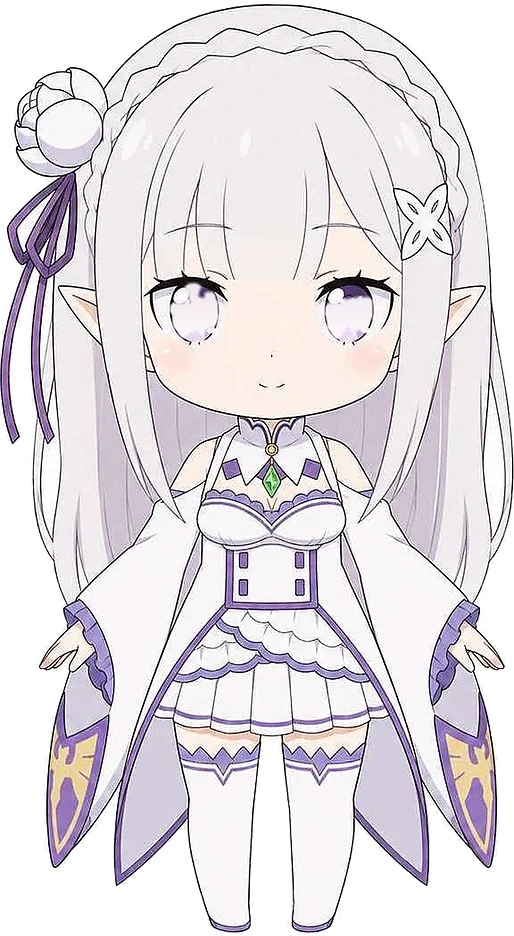
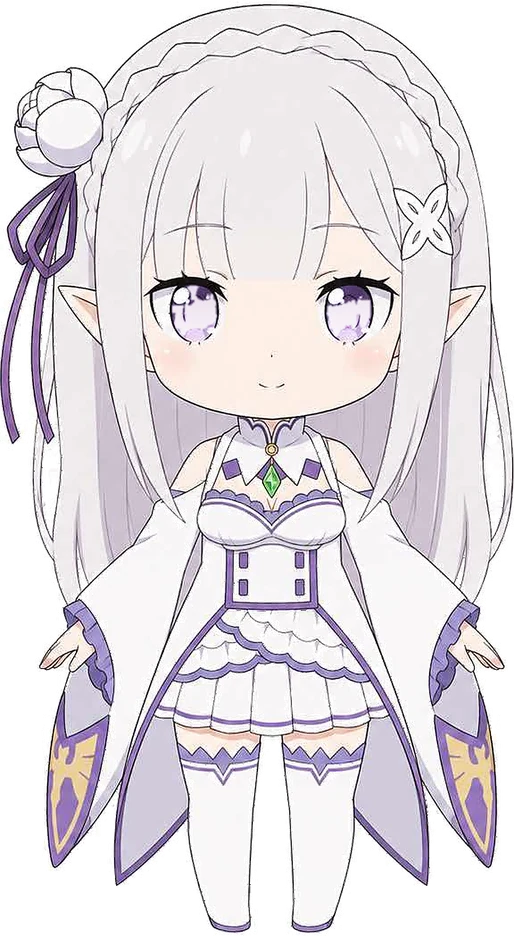
fix(pet): 眨眼改眼睑补丁（消除瞬间变清晰的跳变）+ 像素级去白边
- 眨眼不再切换整张精灵（换图会让虹膜/睫毛补丁隐藏、眼睛区域突然回到底图分辨率，观感上就是“眨一下变高清”）
- 改为眼睑补丁：从闭眼版与底图的差异区域自动提取 + MaxFilter(5) + 0.8px 羽化，只覆盖眼睛；底图/眼白/睫毛全程不变
- 顺带移除 front_closed_* 三个整帧文件，省 73KB 下载
- 抠图去白边：对 alpha<0.92 的边缘像素做最近不透明色扩散（8 次迭代），边缘均色 (252.7,246.7,250.7) → (229.4,225.2,228.7)，接近核心色 (215,208,214)
- 素材版本 v=20261029h / codeVer 20261029.4

diff --git a/source/js/pet.js b/source/js/pet.js
@@ -33,18 +33,19 @@
   var bubbleTimer = null, lastPath = null, raf = 0;
 
   /* ---------- 伪 2.5D：整卡透视倾斜 ---------- */
-  var ASSET_V = '?v=20261029f';
-  var PET_VER = '20261029.2';   // 内容指纹：改素材必须同步改这里，否则 CDN 7 天缓存不会更新
+  var ASSET_V = '?v=20261029h';
+  var PET_VER = '20261029.4';   // 内容指纹：改素材必须同步改这里，否则 CDN 7 天缓存不会更新
   var SPRITE_1X = '/images/pet/front_312.webp' + ASSET_V;
   var SPRITE_2X = '/images/pet/front_624.webp' + ASSET_V;
   var SPRITE_3X = '/images/pet/front_936.webp' + ASSET_V;
-  var SPRITE_CLOSED_1X = '/images/pet/front_closed_312.webp' + ASSET_V;
-  var SPRITE_CLOSED_2X = '/images/pet/front_closed_624.webp' + ASSET_V;
-  var SPRITE_CLOSED_3X = '/images/pet/front_closed_936.webp' + ASSET_V;
   // 三层结构：底图（眼内已铺满眼白）+ 会动的虹膜 + 固定在最上层的睫毛/眼眶
   var EYES = [
-    { src: '/images/pet/iris_l.webp' + ASSET_V, src2: '/images/pet/iris_l@2x.webp' + ASSET_V, x: 32.64, y: 30.06, w: 10.42, h: 6.3 },
-    { src: '/images/pet/iris_r.webp' + ASSET_V, src2: '/images/pet/iris_r@2x.webp' + ASSET_V, x: 62.85, y: 31.49, w: 10.07, h: 4.96 }
+    { src: '/images/pet/iris_l.webp' + ASSET_V, src2: '/images/pet/iris_l@2x.webp' + ASSET_V, x: 32.81, y: 30.15, w: 10.07, h: 6.11 },
+    { src: '/images/pet/iris_r.webp' + ASSET_V, src2: '/images/pet/iris_r@2x.webp' + ASSET_V, x: 62.85, y: 31.58, w: 9.9, h: 4.77 }
+  ];
+  var LIDS = [
+    { src: '/images/pet/lid_l.webp', src2: '/images/pet/lid_l@2x.webp', x: 27.43, y: 28.63, w: 17.19, h: 8.40 },
+    { src: '/images/pet/lid_r.webp', src2: '/images/pet/lid_r@2x.webp', x: 60.94, y: 28.63, w: 17.19, h: 7.92 }
   ];
   var LASHES = [
     { src: '/images/pet/lash_l.webp' + ASSET_V, src2: '/images/pet/lash_l@2x.webp' + ASSET_V, x: 27.43, y: 28.63, w: 17.19, h: 8.4 },
@@ -56,6 +57,7 @@
   var artEl = null;             // 承载倾斜的 card
   var eyeEls = [];              // 虹膜补丁（跟随）
   var lashEls = [];             // 睫毛/眼眶补丁（固定，置于最上层）
+  var lidEls = [];              // 眼睑补丁（眨眼瞬间显示）
   var layers = [];              // 兼容旧接口，sprite 模式恒为空
   var headTilt = null;
   var target = { x: 0, y: 0 };  // 归一化指针方向 [-1,1]
@@ -200,6 +202,12 @@
     for (var i = 0; i < EYES.length; i++) addLayer(card, EYES[i], 'pet-eye', eyeEls);
     // 睫毛层最后添加 → 永远盖在虹膜之上，虹膜移动时被它裁住不会越界
     for (var j = 0; j < LASHES.length; j++) addLayer(card, LASHES[j], 'pet-lash', lashEls);
+    // 眼睑层最后 → 眨眼时只盖住眼睛，底图不换，避免“眨一下突然变清晰”
+    lidEls = [];
+    for (var n = 0; n < LIDS.length; n++) {
+      var le = addLayer(card, LIDS[n], 'pet-lid', lidEls);
+      le.style.opacity = '0';
+    }
   }
 
   function mountArt(card) {
@@ -217,7 +225,7 @@
 
 
   /* ---------- 眨眼：两帧换图（闭眼帧已预载，切换无闪烁） ---------- */
-  var blinkTimer = null, blinkOn = false, closedEl = null;
+  var blinkTimer = null, blinkOn = false;
 
   function setClosed(on) {
     if (closedEl) closedEl.style.opacity = on ? '1' : '0';
@@ -229,14 +237,14 @@
   }
 
   function blinkOnce() {
-    if (!closedEl || !el || document.hidden) { scheduleBlink(); return; }
+    if (!el || document.hidden) { scheduleBlink(); return; }
     blinkOn = true;
     for (var i = 0; i < eyeEls.length; i++) eyeEls[i].style.opacity = '0';
     for (var k = 0; k < lashEls.length; k++) lashEls[k].style.opacity = '0';
-    setClosed(true);
+    for (var n = 0; n < lidEls.length; n++) lidEls[n].style.opacity = '1';
     setTimeout(function () {
       blinkOn = false;
-      setClosed(false);
+      for (var n2 = 0; n2 < lidEls.length; n2++) lidEls[n2].style.opacity = '0';
       for (var j = 0; j < eyeEls.length; j++) eyeEls[j].style.opacity = '1';
       for (var m = 0; m < lashEls.length; m++) lashEls[m].style.opacity = '1';
       scheduleBlink();
@@ -307,16 +315,6 @@
     img.draggable = false;
     img.decoding = 'async';
     card.appendChild(img);
-
-    var closed = document.createElement('img');
-    closed.className = 'pet-closed';
-    closed.alt = '';
-    closed.draggable = false;
-    closed.src = SPRITE_CLOSED_1X;
-    closed.srcset = SPRITE_CLOSED_2X + ' 2x, ' + SPRITE_CLOSED_3X + ' 3x';
-    closed.style.opacity = '0';
-    card.appendChild(closed);
-    closedEl = closed;
 
     art.appendChild(card);
     art.setAttribute('data-credit', '角色形象：阿万提供（AI 生成三视图），见 /images/pet/ATTRIBUTION.md');

diff --git a/source/css/pet.css b/source/css/pet.css
@@ -32,19 +32,9 @@
 }
 
 /* 眼睛跟随补丁：叠在精灵上，只做小范围位移 */
-/* 闭眼帧：与底图同尺寸叠放，靠 opacity 切换（无解码空窗，不会闪白） */
-#pet-widget .pet-closed {
-  position: absolute;
-  inset: 0;
-  width: 100%;
-  height: 100%;
-  pointer-events: none;
-  opacity: 0;
-  transition: opacity 0.03s linear;
-}
-
 #pet-widget .pet-eye,
-#pet-widget .pet-lash {
+#pet-widget .pet-lash,
+#pet-widget .pet-lid {
   position: absolute;
   pointer-events: none;
   opacity: 1;
